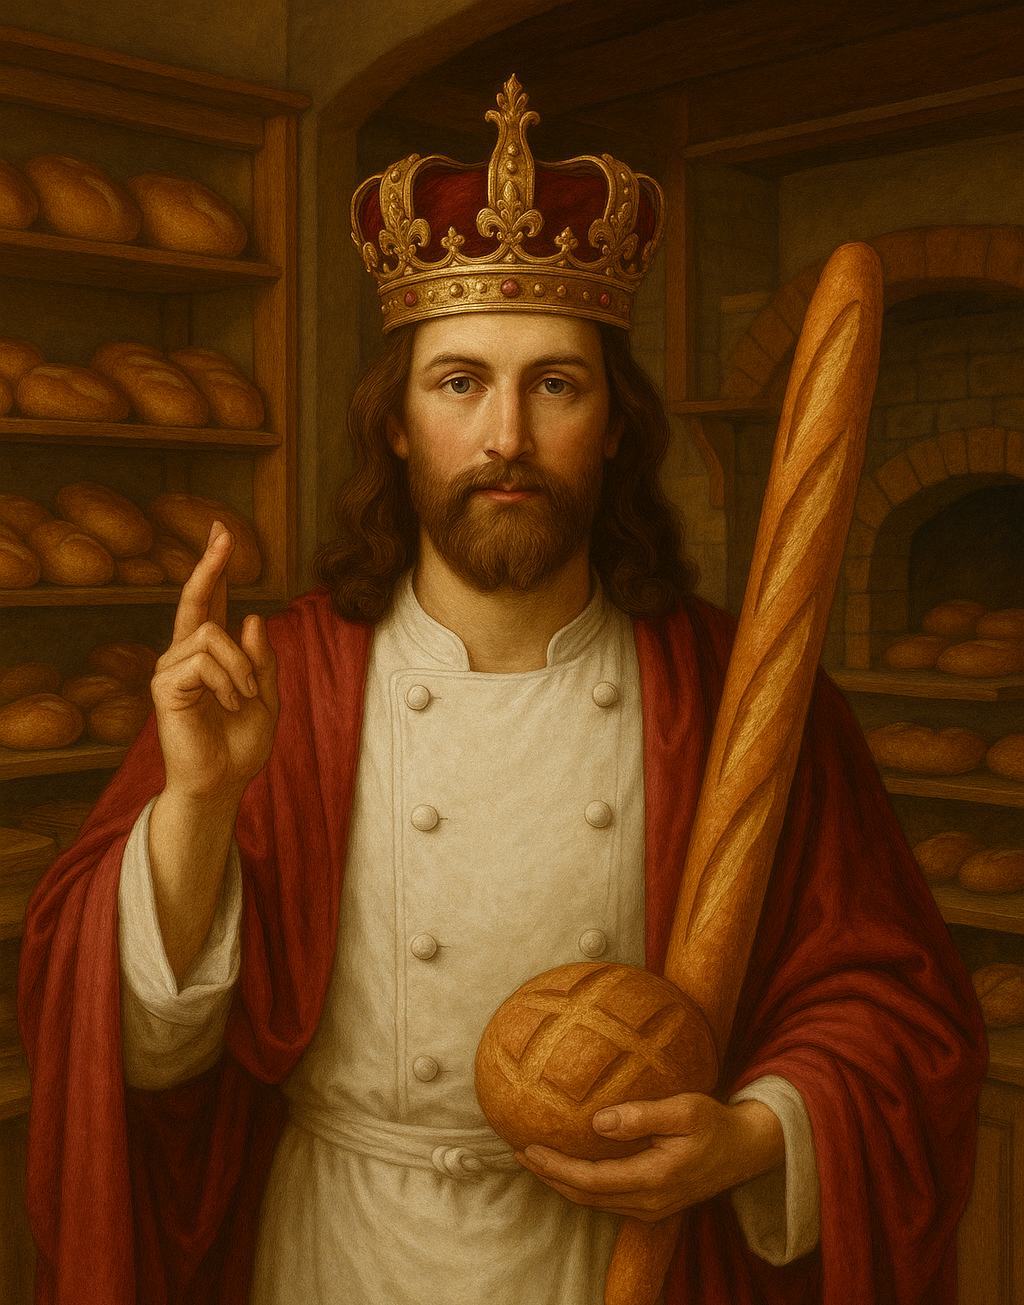
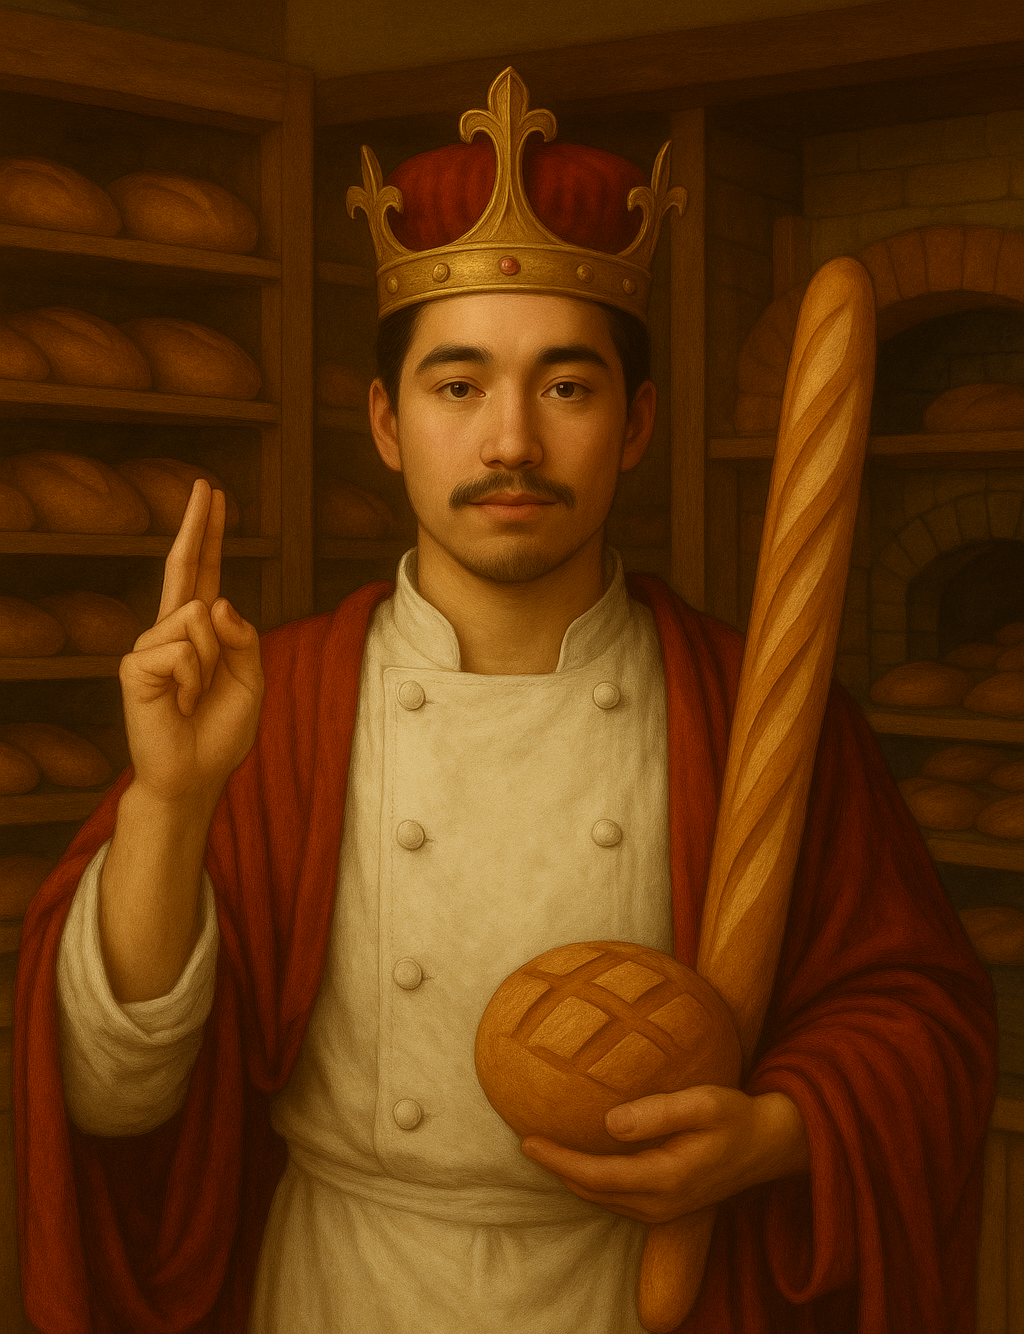
adding new member : panetier

diff --git a/app/page.tsx b/app/page.tsx
@@ -121,6 +121,31 @@ export default function Home() {
               </ul>
             </div>
           </div>
+
+          {/* Apprenti Panetier */}
+          <div className="flex flex-col md:flex-row items-center gap-6 p-6 bg-boulange-flour/10 rounded-lg">
+            <div className="w-48 h-48 relative">
+              <Image
+                src={`${basePath}/panetier.png`}
+                alt="Apprenti Panetier"
+                fill
+                className="object-cover rounded-full"
+              />
+            </div>
+            <div className="flex-1 text-center md:text-left">
+              <h3 className="text-2xl font-medieval text-boulange-gold mb-2">Apprenti Panetier</h3>
+              <p className="mb-4">
+                Sculpteur du pain quotidien, héritier du levain ancestral. Je veille à l&apos;alchimie des farines, à la noblesse de la croûte et à l&apos;âme de chaque mie.
+                À l&apos;aube, mon four est un temple, et chaque fournée, un serment de qualité..
+              </p>
+              <ul className="list-disc list-inside space-y-1">
+                <li>Artisan du pain vivant</li>
+                <li>Gardien du levain sacré</li>
+                <li>Maître des cuissons dorées</li>
+              </ul>
+            </div>
+          </div>
+
         </div>
       </section>
     </main>
